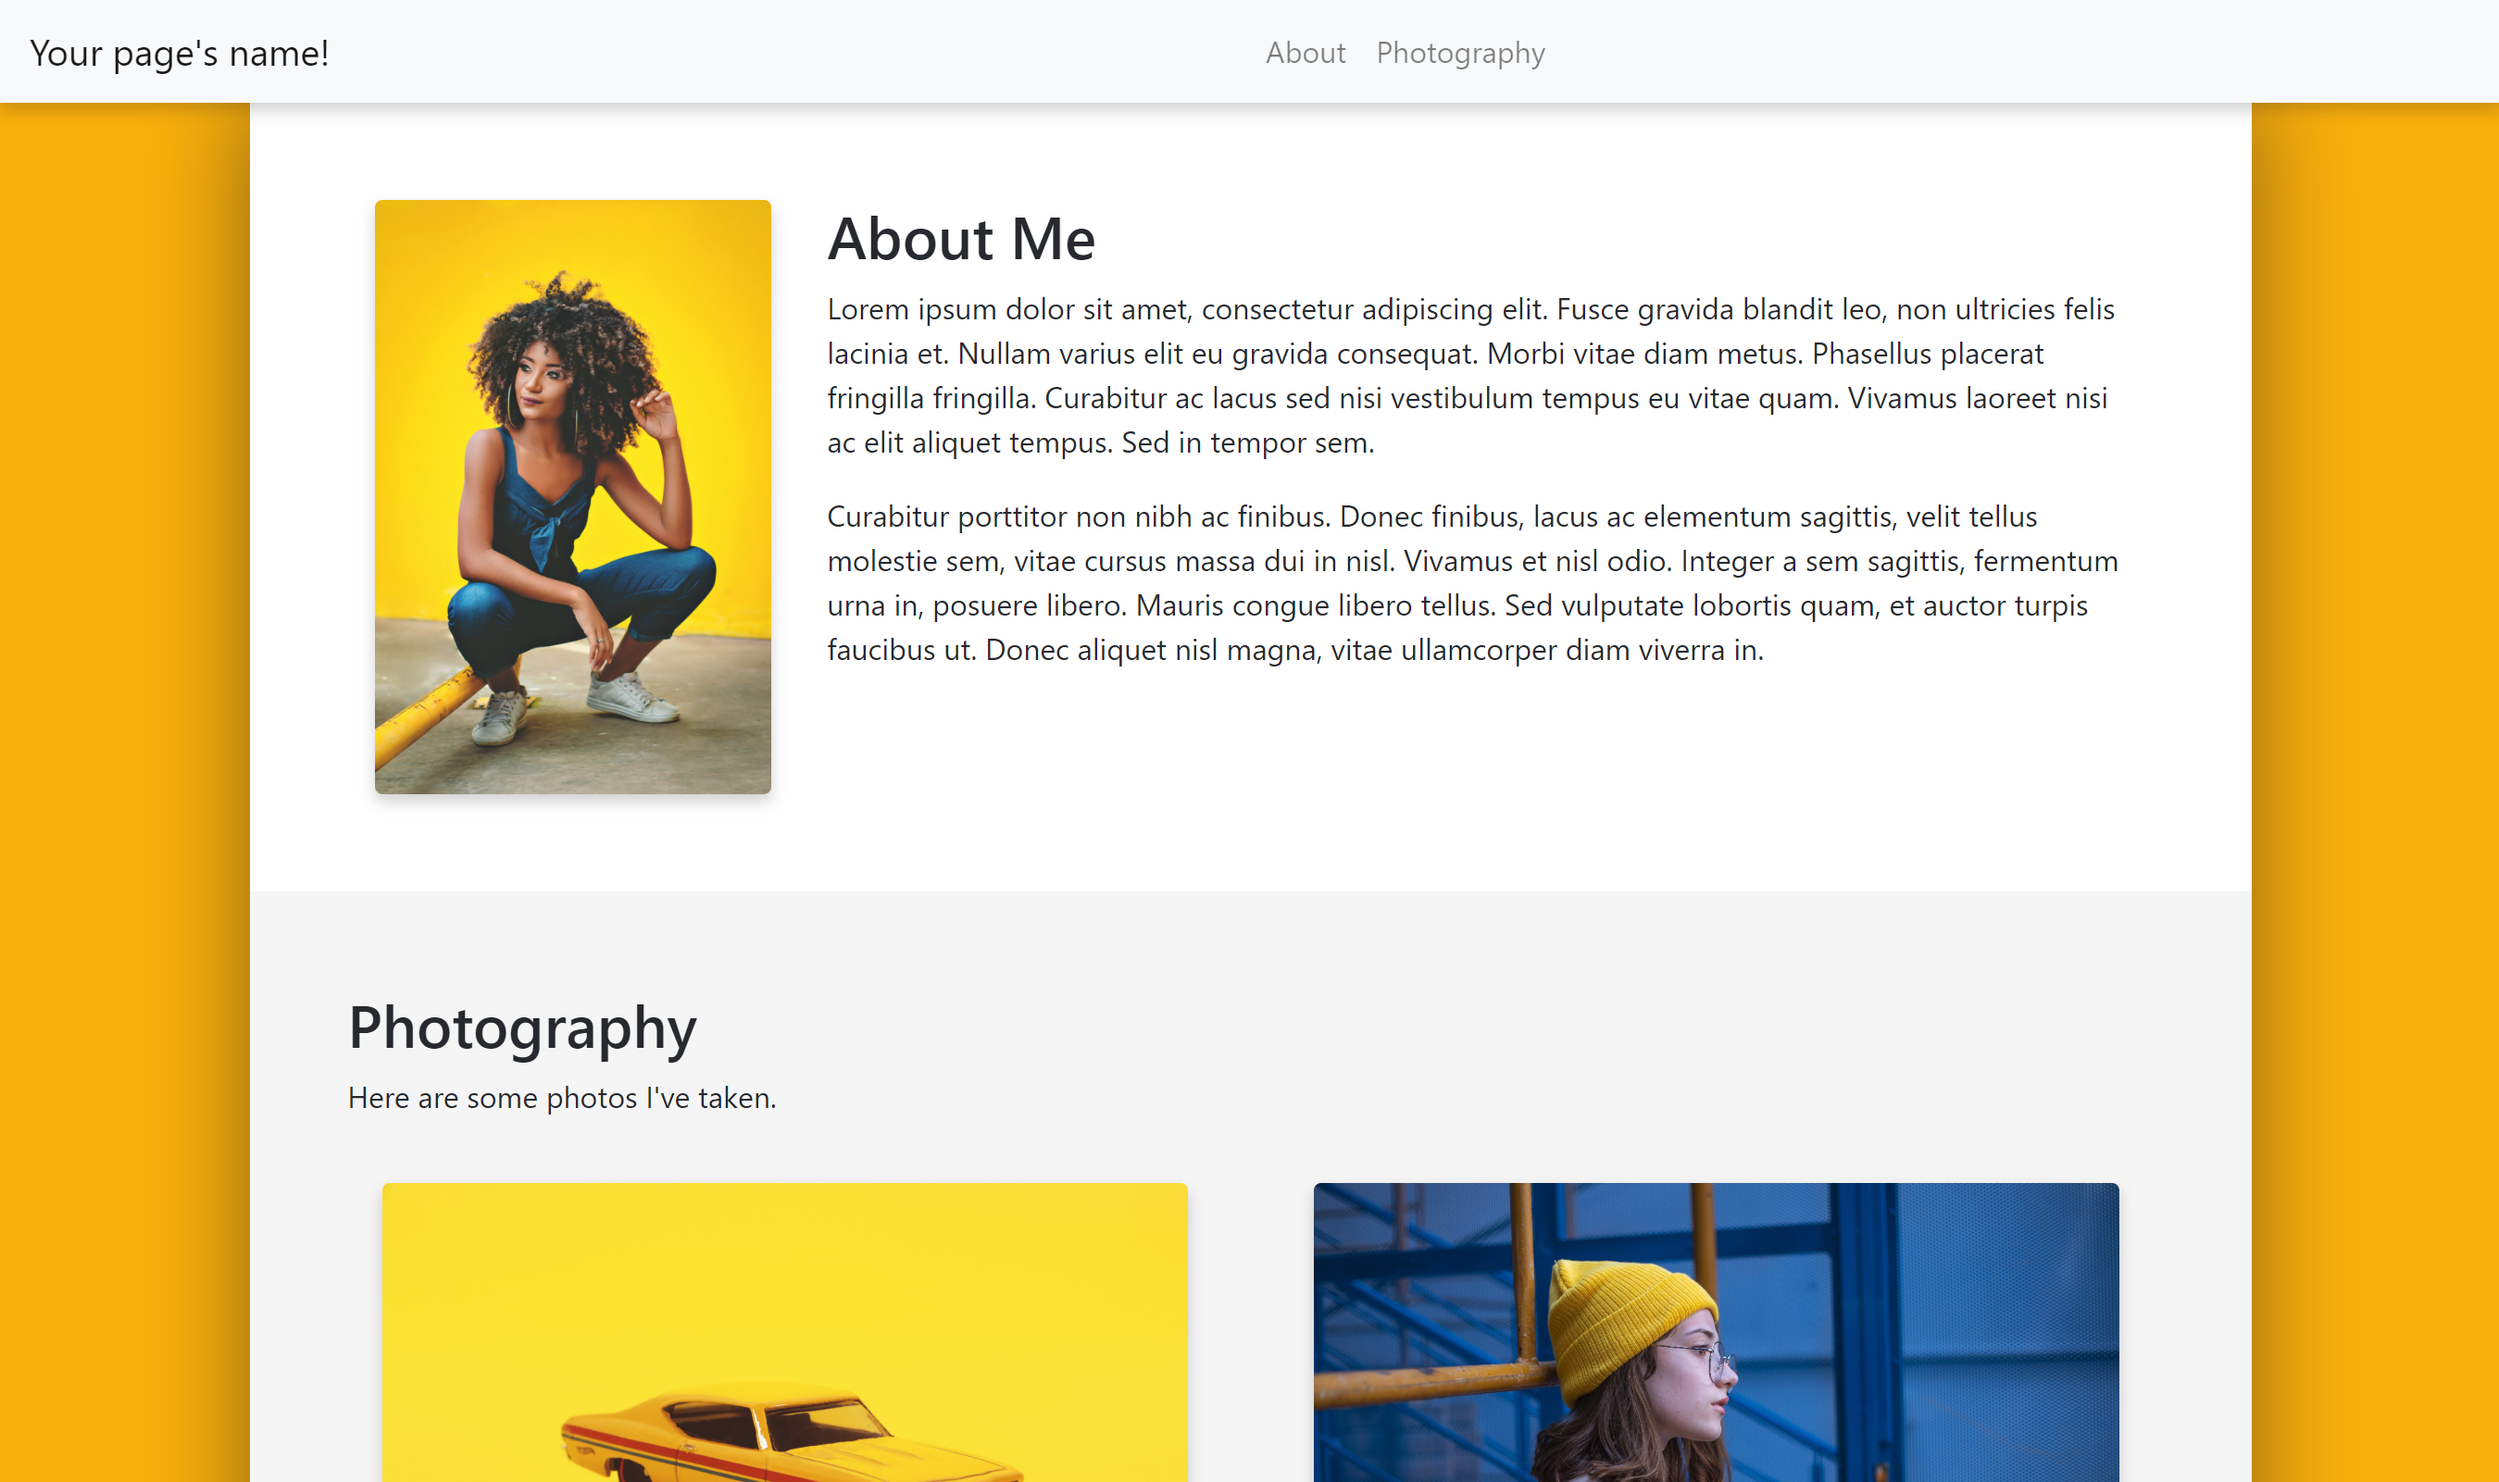
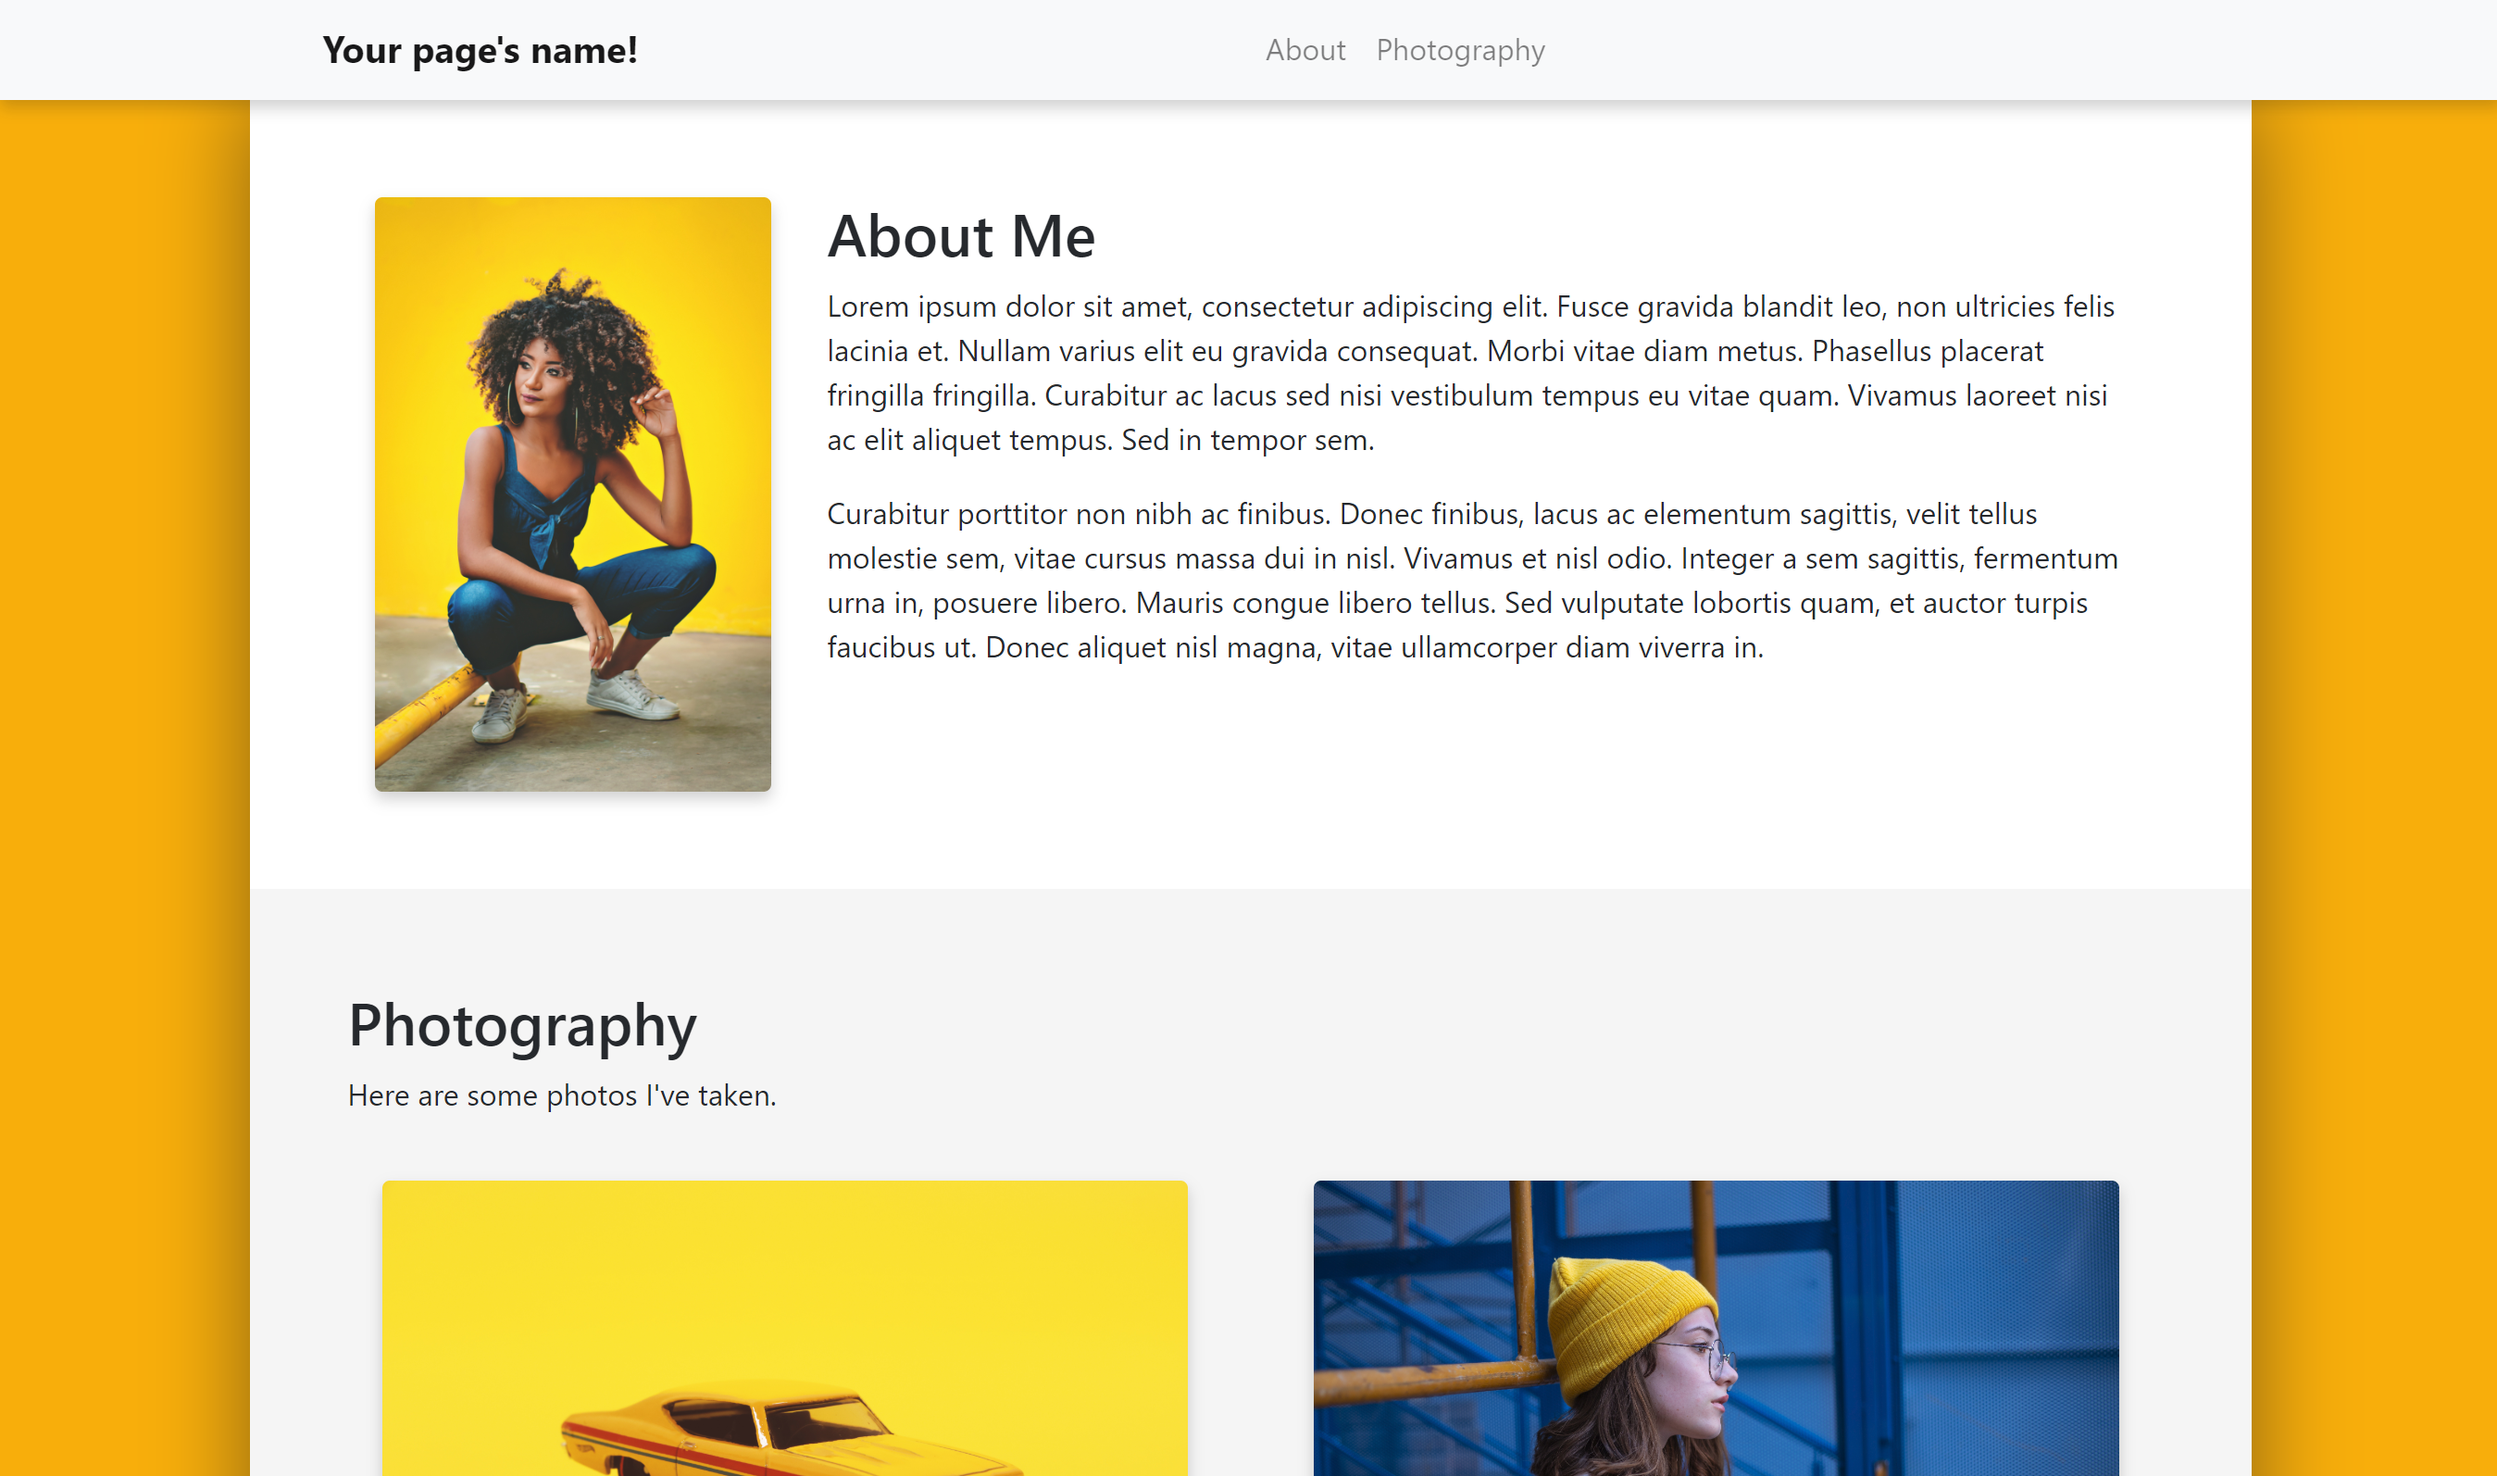
Finished Bootstrap tutorial main section, changed navbar boldness

diff --git a/projects/media/bootstrap/README.md b/projects/media/bootstrap/README.md
@@ -465,6 +465,17 @@ navbar.
 }
 ```  
 
+And let's bold the navbar's title (called "brand" by Bootstrap) and move it a 
+little to the right, so it aligns with the content column:  
+
+```css
+/* Bold the navbar's brand and put spacing on its left so it shifts right. */
+.navbar-brand {
+    font-weight: bold;
+    padding-left: 12%;
+}
+```
+
 You might notice that the navbar has also been flatly lying on the page. We can 
 make it sticky, i.e. it will scroll along with the user, by encasing the navbar 
 section in our HTML in another div:  
@@ -607,6 +618,67 @@ Our HTML should look like this:
 </body>
 
 </html>
+```  
+
+And our CSS should look like this:  
+
+```css
+/* This is a comment. It doesn't affect the code and is helpful for organization. */
+
+/* Make the navbar links sliiide to their targets, instead of jumping: */
+html {
+    scroll-behavior: smooth;
+}
+
+/* Add a shadow shifted 4px downward and spread over 8px to the navbar. */
+.navbar {
+    box-shadow: 0px 4px 8px rgba(17,17,17,0.2);
+}
+
+/* Bold the navbar's brand and put spacing on its left so it shifts right. */
+.navbar-brand {
+    font-weight: bold;
+    padding-left: 12%;
+}
+
+/* Color the background and add some space to the sides of the main column: */
+.container-fluid {
+    background-color: #F8B003;
+    padding-left: 10% !important;
+    padding-right: 10% !important;
+}
+/* Note that, above, the !important tag tells the browser to override the preset 
+padding for the .container-fluid class. */
+
+/* Color the main column background white: */
+/* ...and add a box-shadow shifted 0 right, 0 down, and spread over 50px: */
+.col.main {
+    background-color: white;
+    /* You can also edit the rgba values to make the shadow a different color or darker. */
+    box-shadow: 0 0 50px rgba(17,17,17,0.5);
+}
+
+/* Add some padding around the stuff inside the different sections of our page. */
+.row.section {
+    padding: 5%;
+}
+
+/* Put a nice frame and soft shadow around all images on the page: */
+img {
+    border: 4px solid white;
+    border-radius: 4px;
+    box-shadow: 0px 4px 8px rgba(17,17,17,0.2);
+}
+
+/* Color the second section (photography) for contrast: */
+#photography {
+    background-color: whitesmoke;
+}
+
+/* Space out the photos in our gallery a little: */
+.thumbnail {
+    margin: 4%;
+}
 ```
 
 Now let's see the result:  
